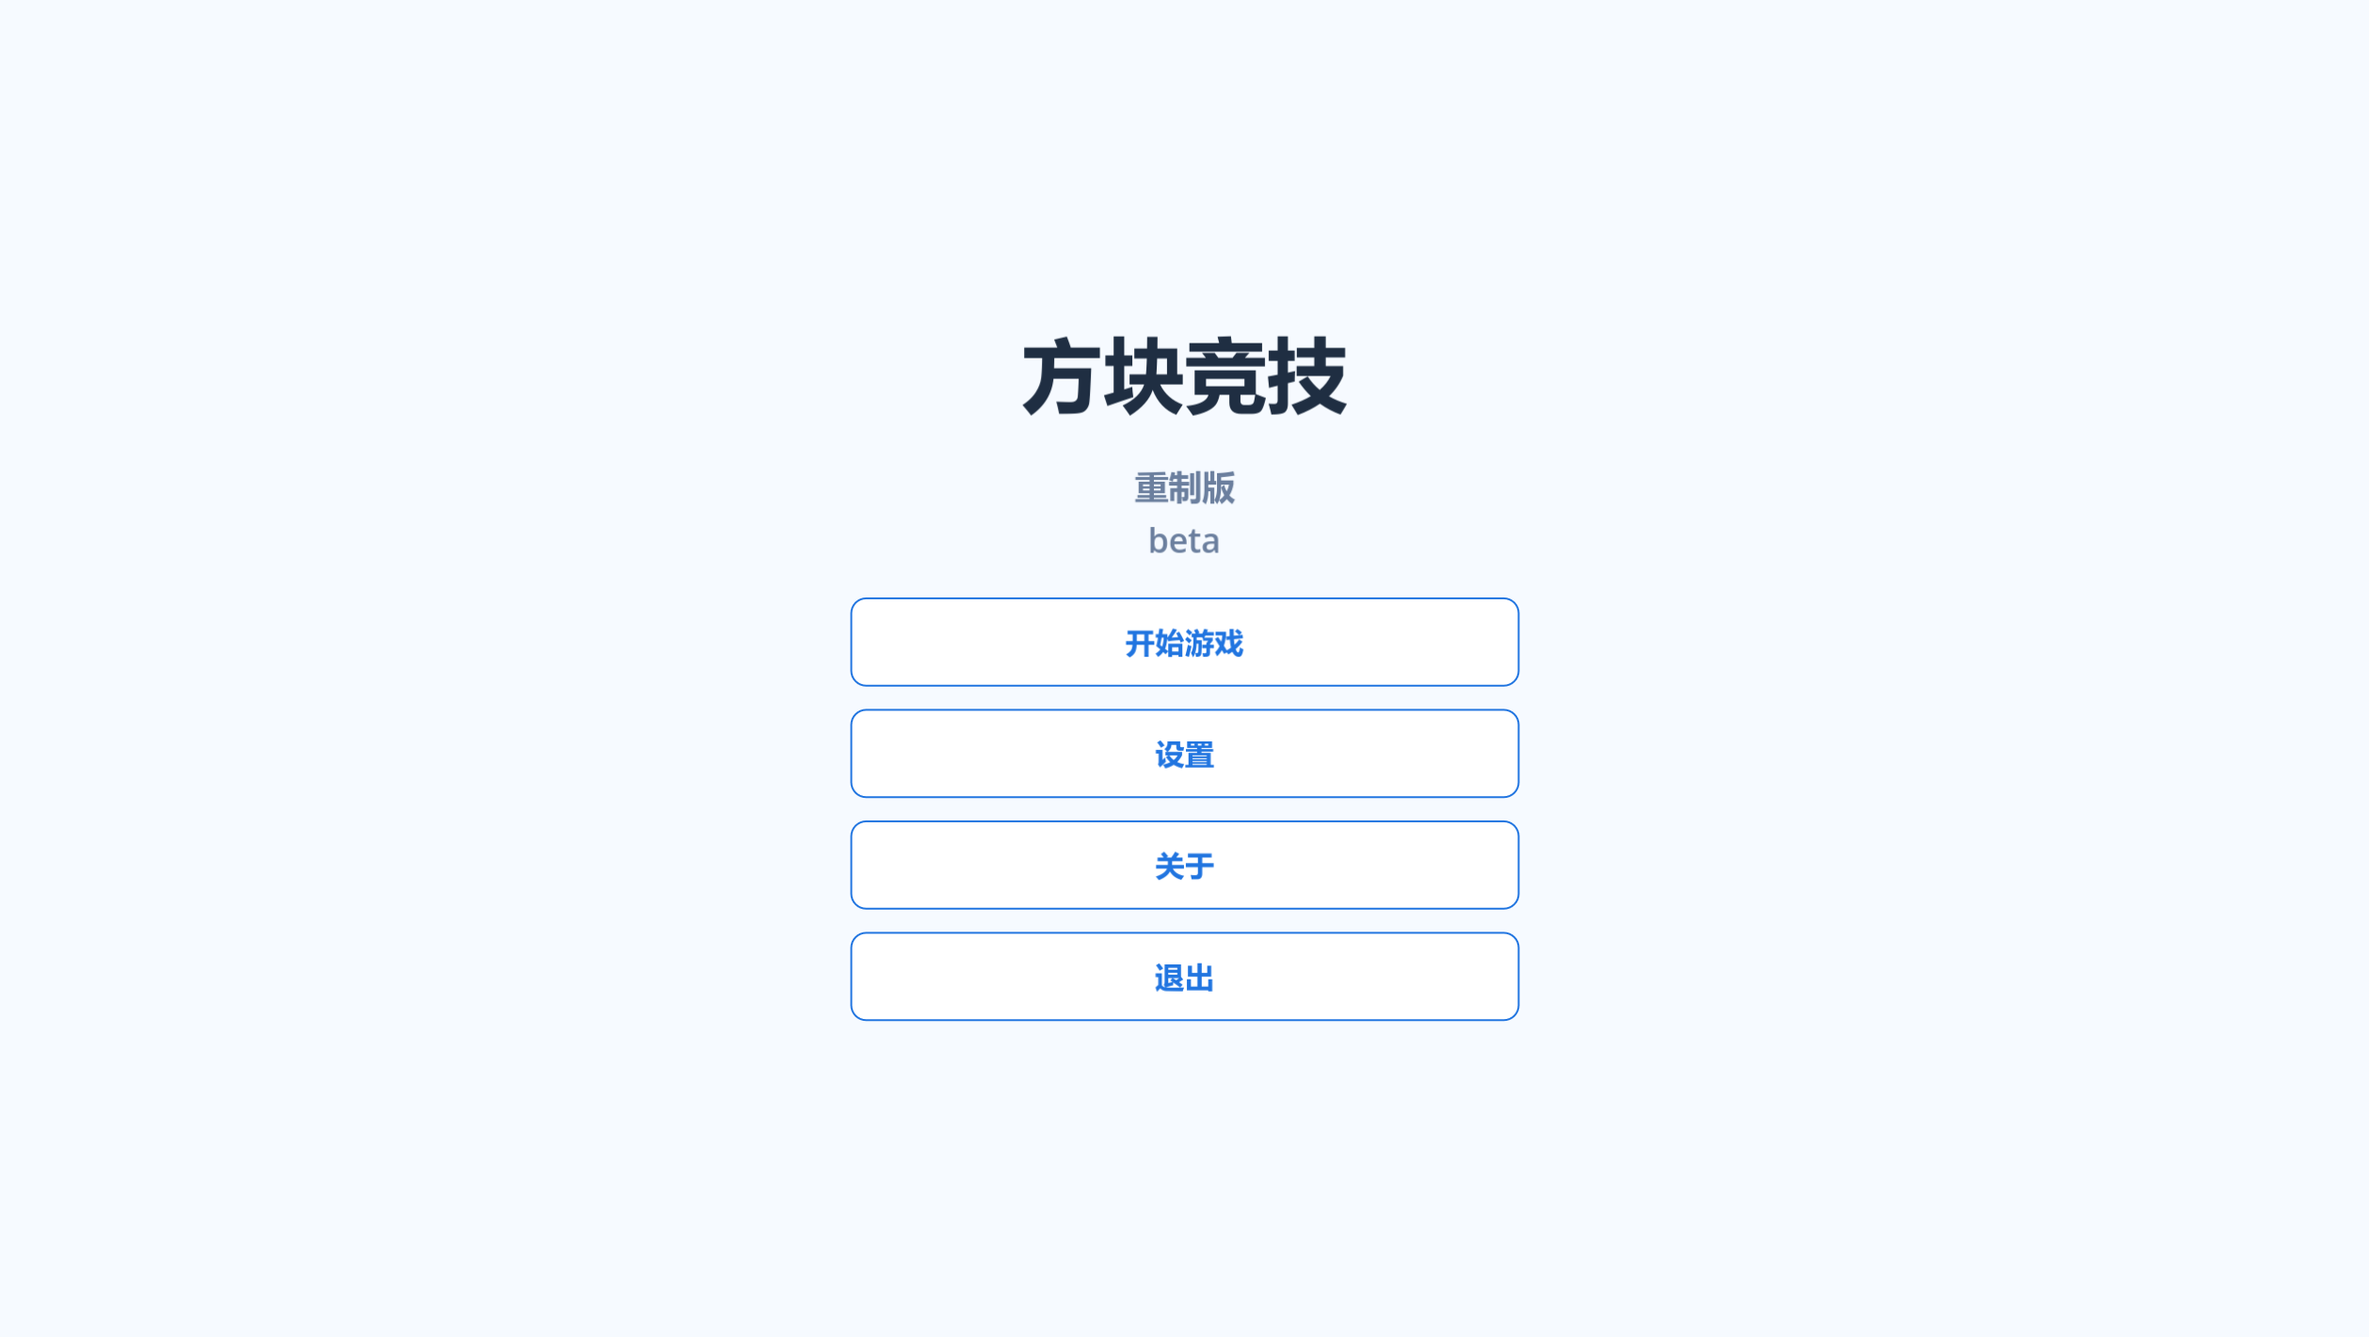
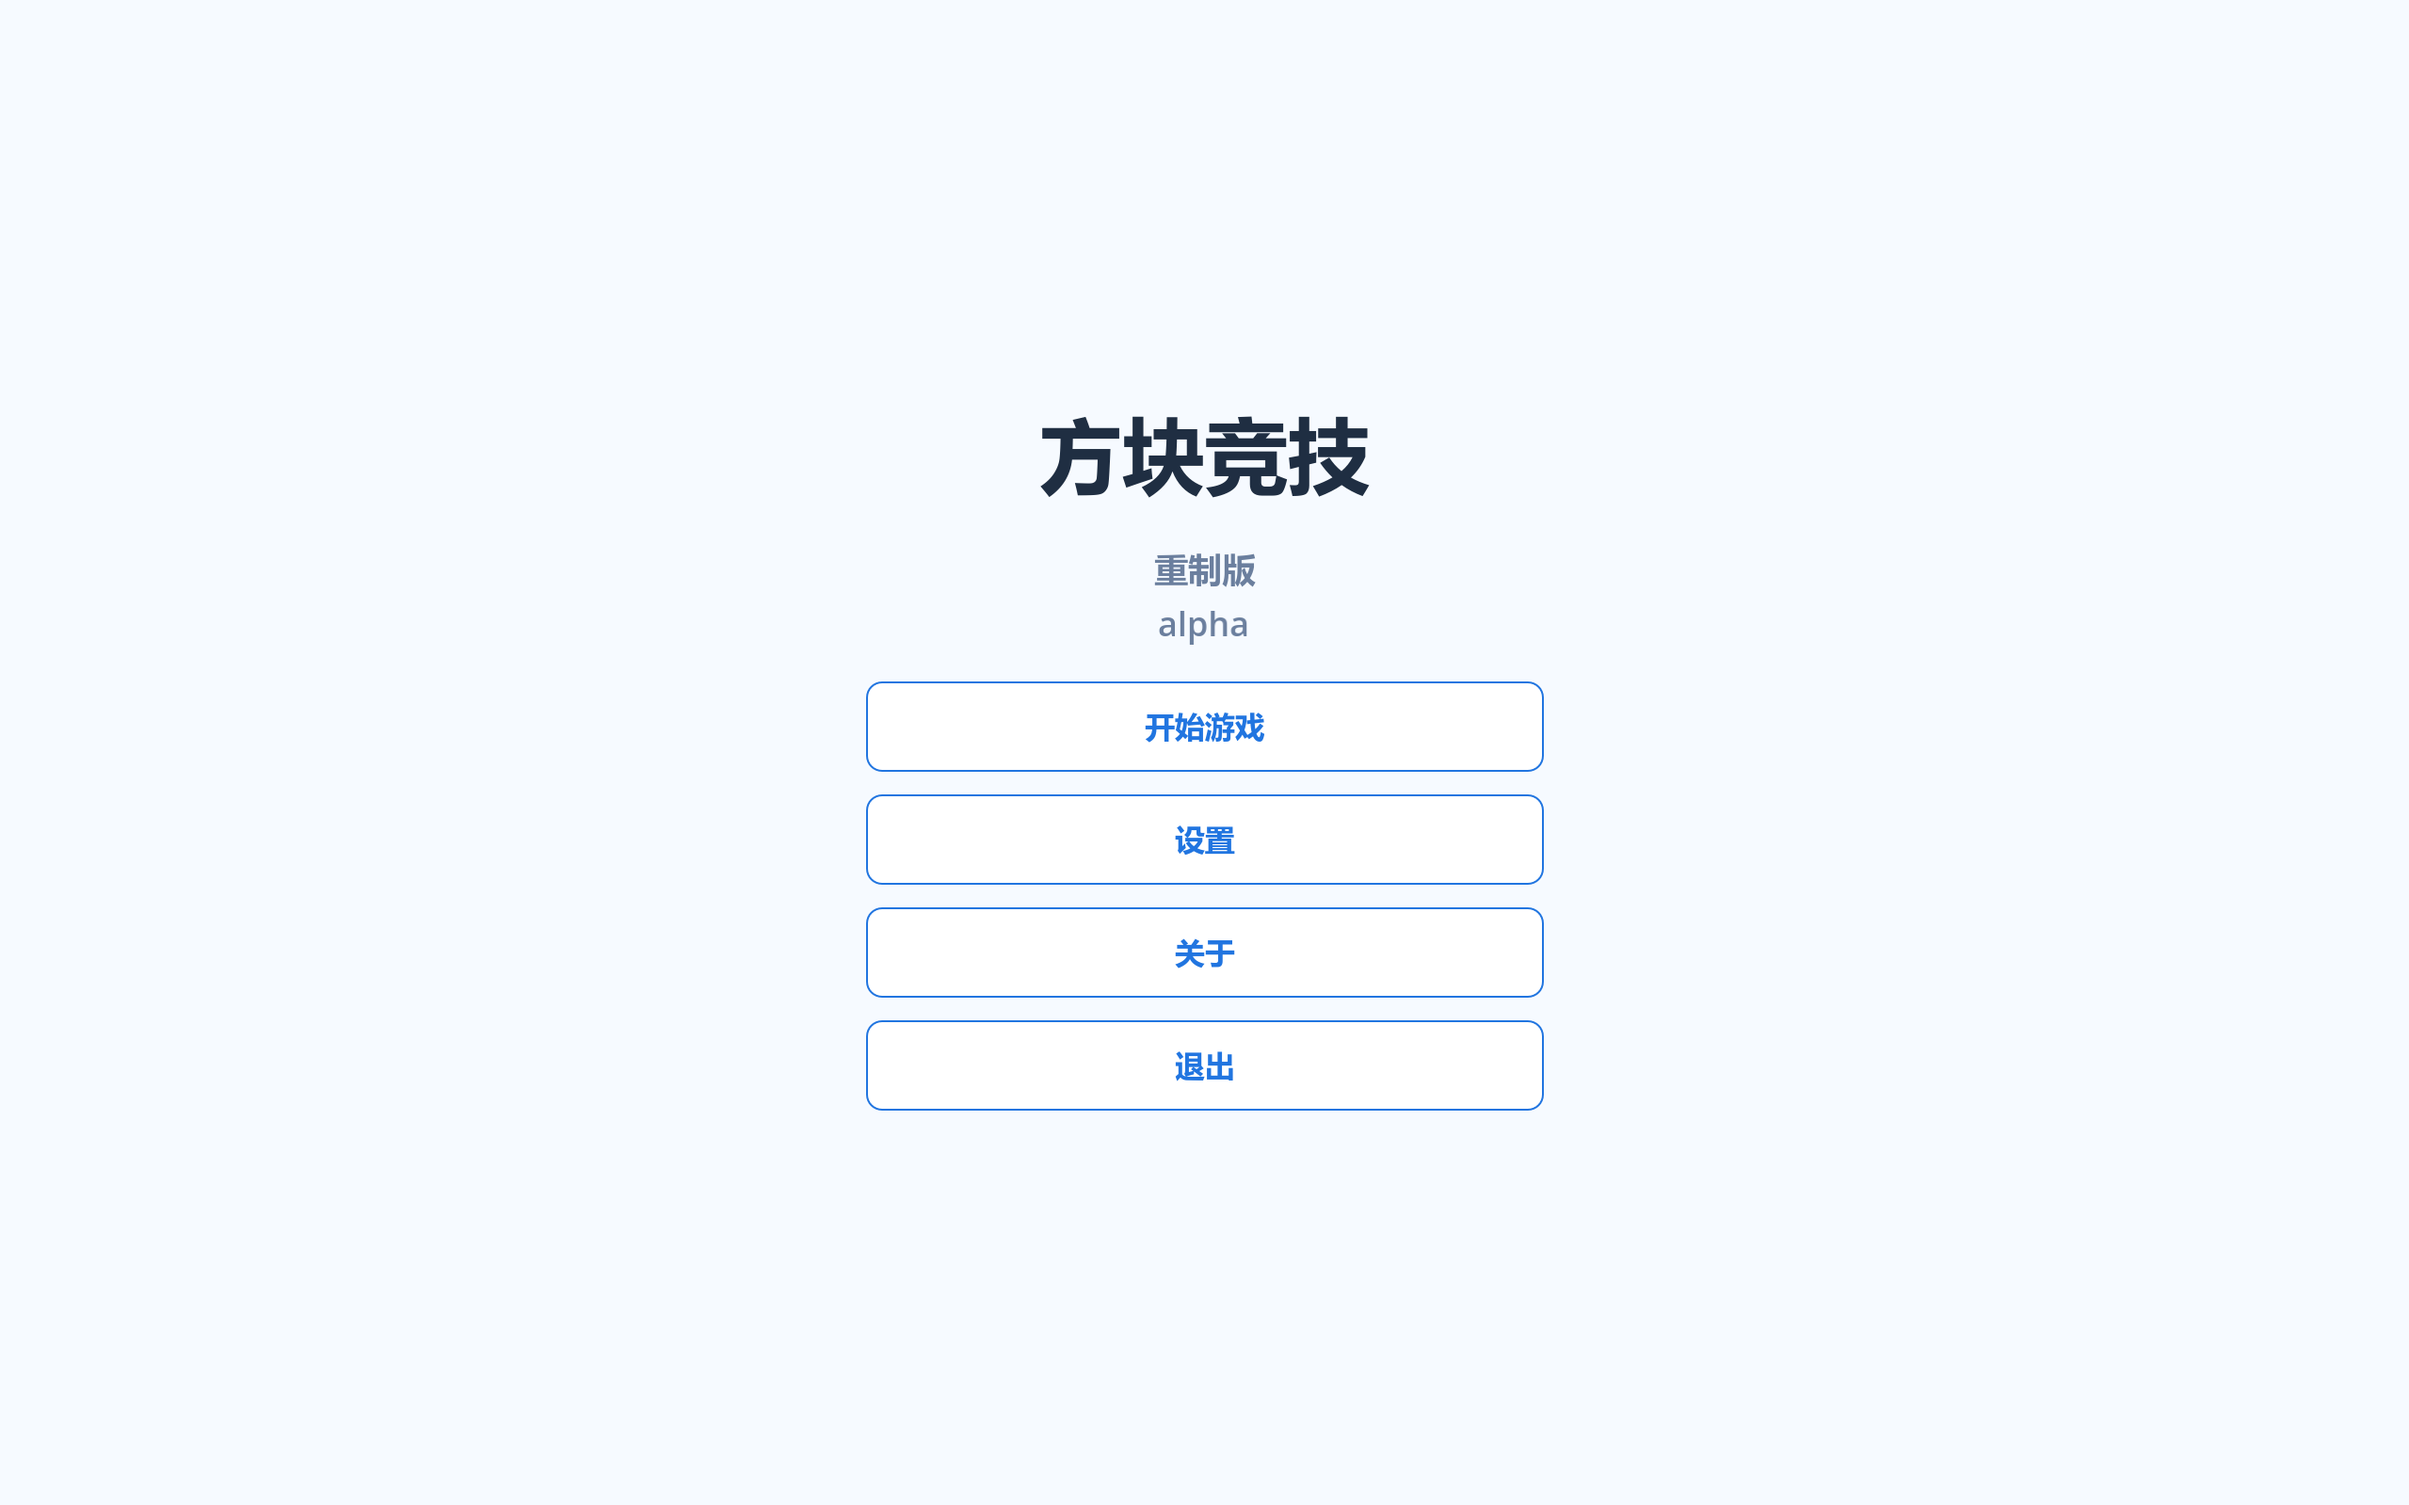
方块竞技 重制版 alpha

Changed region(s): [[0.3719, 0.5264, 0.6508, 0.7431], [0.3719, 0.2477, 0.6198, 0.4954]]

diff --git a/pages/dream7c-CLR/index.html b/pages/dream7c-CLR/index.html
@@ -16,10 +16,186 @@
 		<div class="loading"><div class="pic"></div></div>
 		<div id="main_menu" class="menu-container"></div>
 		<div id="sub_menu" class="menu-container"></div>
-		<h1 class="tx1">方块竞技 重制版</h1>
-		<h2 class="tx3v">即将发布，敬请期待</h2>
+		<style>
+			.clr-page{width:86%;max-width:1320px;margin:0 auto;}
+			.clr-hero{padding:28px 0 16px;}
+			.clr-hero-logo{width:36%;max-width:360px;display:block;margin:0 auto 24px;}
+			.clr-shot img,.clr-mode-image img{width:100%;display:block;border-radius:10px;}
+			.clr-actions{overflow:hidden;margin-top:24px;}
+			.clr-section{clear:both;padding:24px 0;}
+			.clr-mode-grid{display:grid;grid-template-columns:repeat(3,minmax(0,1fr));gap:18px;}
+			.clr-mode-card{background:#fff;border:1px solid rgba(136,171,218,0.35);padding:18px;border-radius:8px;text-align:center;cursor:pointer;}
+			.clr-mode-card-active{background:#88abda;color:#fff;}
+			.clr-mode-card-active .tx3b,.clr-mode-card-active .tx3{color:#fff;}
+			.clr-mode-icon{width:84px;max-width:38%;display:block;margin:0 auto 12px;}
+			.clr-mode-detail{clear:both;overflow:hidden;padding:24px 0;border-top:1px solid #e8e8e8;}
+			.clr-mode-detail-hidden{display:none;}
+			.clr-mode-image{float:left;width:46%;}
+			.clr-mode-content{float:right;width:50%;}
+			.clr-skill-grid{display:grid;grid-template-columns:repeat(2,minmax(0,1fr));gap:12px;margin-top:14px;}
+			.clr-skill{overflow:hidden;background:#f7f7f7;border:1px solid #e8e8e8;border-radius:8px;padding:10px;}
+			.clr-skill img{float:left;width:54px;height:54px;margin-right:12px;border-radius:8px;}
+			.clr-skill p{margin:0;}
+			.clr-shot-grid{display:grid;grid-template-columns:repeat(2,minmax(0,1fr));gap:18px;}
+			.clr-shot{text-align:center;}
+			.clr-download{background:#f7f7f7;border:1px solid #e8e8e8;border-radius:8px;padding:22px;overflow:hidden;}
+			.clr-download-info{float:left;width:58%;}
+			.clr-download-action{float:right;width:34%;margin-top:18px;padding:18px;text-align:center;background:#88abda;color:#fff;font-size:20px;border-radius:8px;}
+			.clr-placeholder{color:#535353;}
+			@media (max-width: 768px) {
+				.clr-page{width:92%;}
+				.clr-hero-logo{width:68%;}
+				.clr-mode-image,.clr-mode-content,.clr-download-info,.clr-download-action{float:none;width:100%;}
+				.clr-mode-grid,.clr-skill-grid,.clr-shot-grid{grid-template-columns:1fr;}
+			}
+		</style>
+		<div class="clr-page">
+			<div class="clr-hero">
+				<h1 class="tx1">方块竞技 重制版</h1>
+				<img class="clr-hero-logo" src="../../images/dream7c CLR logo.png" alt="方块竞技 重制版 logo" />
+				<div class="mdiv">
+					<div class="clr-section" id="clr-download">
+						<p class="tx2v">下载 方块竞技 重制版</p>
+						<div class="clr-download">
+							<div class="clr-download-info">
+								<p class="tx3b">方块竞技 重制版</p>
+								<p class="tx3">
+									版本：alpha<br/><br/>
+									支持系统：Windows<br/>
+									语言：中文（简体）<br/>
+									占用内存：176 MB<br/><br/>
+									发布日期：2026.06.09
+								</p>
+							</div>
+							<a href="#"><div class="clr-download-action">点此下载</div></a>
+							<a href="../../pages/dream7c-CLR/about.html"><div class="clr-download-action">关于</div></a>
+						</div>
+					</div>
+				</div>
+			</div>
+
+			<div class="clr-section">
+				<p class="tx2v">游戏模式</p>
+				<div class="clr-mode-grid">
+					<div class="clr-mode-card clr-mode-card-active" id="clr-mode-tab-classic" onclick="showClrMode('classic')">
+						<img class="clr-mode-icon" src="../../images/dream7c CLR/icons/classic/classic.png" alt="经典模式" />
+						<p class="tx3b">经典模式</p>
+					</div>
+					<div class="clr-mode-card" id="clr-mode-tab-explore" onclick="showClrMode('explore')">
+						<img class="clr-mode-icon" src="../../images/dream7c CLR/icons/explore/explore.png" alt="探索模式" />
+						<p class="tx3b">探索模式</p>
+					</div>
+					<div class="clr-mode-card" id="clr-mode-tab-conquest" onclick="showClrMode('conquest')">
+						<img class="clr-mode-icon" src="../../images/dream7c CLR/icons/conquest/conquest.png" alt="征服模式" />
+						<p class="tx3b">征服模式</p>
+					</div>
+				</div>
+			</div>
+
+			<div class="clr-mode-detail" id="clr-mode-detail-classic">
+				<div class="clr-mode-image">
+					<img src="../../images/dream7c CLR/dream7c CLR classic.png" alt="经典模式截图" />
+				</div>
+				<div class="clr-mode-content">
+					<p class="tx2v">经典模式</p>
+					<p class="tx3">目标：将对手推下平台</p>
+					<p class="tx3b">技能</p>
+					<div class="clr-skill-grid">
+						<div class="clr-skill"><img src="../../images/dream7c CLR/icons/classic/skill_knockback.png" alt="击退" /><p class="tx3b">击退</p><p class="tx3 clr-placeholder">将对手击退一定距离</p></div>
+						<div class="clr-skill"><img src="../../images/dream7c CLR/icons/classic/skill_attract.png" alt="吸引" /><p class="tx3b">吸引</p><p class="tx3 clr-placeholder">缩短与对手距离</p></div>
+						<div class="clr-skill"><img src="../../images/dream7c CLR/icons/classic/skill_repel.png" alt="排斥" /><p class="tx3b">排斥</p><p class="tx3 clr-placeholder">拉开与对手距离</p></div>
+						<div class="clr-skill"><img src="../../images/dream7c CLR/icons/classic/skill_teleport.png" alt="传送" /><p class="tx3b">瞬移</p><p class="tx3 clr-placeholder">移动到对手附近</p></div>
+					</div>
+					<p class="tx3b">状态</p>
+					<div class="clr-skill-grid">
+						<div class="clr-skill"><img src="../../images/dream7c CLR/icons/classic/status_normal.png" alt="normal" /><p class="tx3b">普通</p><p class="tx3 clr-placeholder">体积适中</p></div>
+						<div class="clr-skill"><img src="../../images/dream7c CLR/icons/classic/status_large.png" alt="large" /><p class="tx3b">变大</p><p class="tx3 clr-placeholder">体积变大、增加击退距离、减缓移动速度</p></div>
+						<div class="clr-skill"><img src="../../images/dream7c CLR/icons/classic/status_small.png" alt="small" /><p class="tx3b">变小</p><p class="tx3 clr-placeholder">体积变小、增加移动速度、减小击退距离</p></div>
+						<div class="clr-skill"><img src="../../images/dream7c CLR/icons/classic/status_silenced.png" alt="silenced" /><p class="tx3b">沉默</p><p class="tx3 clr-placeholder">无法使用 吸引、排斥、瞬移</p></div>
+					</div>
+				</div>
+			</div>
+
+			<div class="clr-mode-detail clr-mode-detail-hidden" id="clr-mode-detail-explore">
+				<div class="clr-mode-image">
+					<img src="../../images/dream7c CLR/dream7c CLR explore.png" alt="探索模式截图" />
+				</div>
+				<div class="clr-mode-content">
+					<p class="tx2v">探索模式</p>
+					<p class="tx3">目标：将对手的HP降为0或获得20GP</p>
+					<div class="clr-skill-grid">
+						<div class="clr-skill"><img src="../../images/dream7c CLR/icons/explore/item_0_empower.png" alt="empower" /><p class="tx3b">强化</p><p class="tx3 clr-placeholder">强化下一个技能（技能中的括号内的内容为强化后的效果）</p></div>
+						<div class="clr-skill"><img src="../../images/dream7c CLR/icons/explore/item_1_haste.png" alt="haste" /><p class="tx3b">加速</p><p class="tx3 clr-placeholder">移动速度短暂变为1.5（2）倍</p></div>
+						<div class="clr-skill"><img src="../../images/dream7c CLR/icons/explore/item_2_knockback.png" alt="knockback" /><p class="tx3b">击退</p><p class="tx3 clr-placeholder">将对手击退一小段（一大段）距离，并造成2（4）点伤害</p></div>
+						<div class="clr-skill"><img src="../../images/dream7c CLR/icons/explore/item_3_assault.png" alt="assault" /><p class="tx3b">突袭</p><p class="tx3 clr-placeholder">造成4（8）点伤害</p></div>
+						<div class="clr-skill"><img src="../../images/dream7c CLR/icons/explore/item_4_siphon.png" alt="siphon" /><p class="tx3b">虹吸</p><p class="tx3 clr-placeholder">获得2（4）HP/GP，对手减少2（4）HP/GP</p></div>
+					</div>
+				</div>
+			</div>
+
+			<div class="clr-mode-detail clr-mode-detail-hidden" id="clr-mode-detail-conquest">
+				<div class="clr-mode-image">
+					<img src="../../images/dream7c CLR/dream7c CLR conquest.png" alt="征服模式截图" />
+				</div>
+				<div class="clr-mode-content">
+					<p class="tx2v">征服模式</p>
+					<p class="tx3">目标：获得100GP</p>
+					<div class="clr-skill-grid">
+						<div class="clr-skill"><img src="../../images/dream7c CLR/icons/conquest/skill_knockback.png" alt="击退" /><p class="tx3b">击退</p><p class="tx3 clr-placeholder">将对手击退一段距离</p></div>
+						<div class="clr-skill"><img src="../../images/dream7c CLR/icons/conquest/skill_restricted_zone.png" alt="限制区域" /><p class="tx3b">禁区</p><p class="tx3 clr-placeholder">创造一个圆形区域，对手在区域内的移动速度大幅下降</p></div>
+						<div class="clr-skill"><img src="../../images/dream7c CLR/icons/conquest/skill_raid.png" alt="突袭" /><p class="tx3b">突击</p><p class="tx3 clr-placeholder">移动到对手的据点</p></div>
+					</div>
+				</div>
+			</div>
+
+			<div class="clr-section">
+				<p class="tx2v">游戏截图</p>
+				<div class="clr-shot-grid">
+					<div class="clr-shot">
+						<img src="../../images/dream7c CLR/dream7c CLR main menu.png" alt="主菜单" />
+						<p class="tx3v">主菜单</p>
+					</div>
+					<div class="clr-shot">
+						<img src="../../images/dream7c CLR/dream7c CLR select mode.png" alt="选择模式" />
+						<p class="tx3v">选择模式</p>
+					</div>
+				</div>
+			</div>
+		</div>
 		<div style="clear:both;">&nbsp;</div>
 		<div id="footer"></div>
 	</body>
 	<script src="../../js/setcommon.js"></script>
+	<script>
+		function showClrMode(mode) {
+			var modes = ["classic", "explore", "conquest"];
+			var i;
+			var tab;
+			var detail;
+
+			for (i = 0; i < modes.length; i++) {
+				tab = document.getElementById("clr-mode-tab-" + modes[i]);
+				detail = document.getElementById("clr-mode-detail-" + modes[i]);
+
+				if (tab) {
+					tab.className = tab.className.replace(" clr-mode-card-active", "");
+				}
+				if (detail) {
+					detail.className = detail.className.indexOf("clr-mode-detail-hidden") === -1
+						? detail.className + " clr-mode-detail-hidden"
+						: detail.className;
+				}
+			}
+
+			tab = document.getElementById("clr-mode-tab-" + mode);
+			detail = document.getElementById("clr-mode-detail-" + mode);
+
+			if (tab) {
+				tab.className += " clr-mode-card-active";
+			}
+			if (detail) {
+				detail.className = detail.className.replace(" clr-mode-detail-hidden", "");
+			}
+		}
+	</script>
 </html>

diff --git a/js/data/product-about-pages.js b/js/data/product-about-pages.js
@@ -237,13 +237,12 @@ var productAboutPageData = {
         title: "关于 方块竞技 重制版",
         intro: "方块竞技 重制版 是 方块竞技 系列游戏的重制版，重新设计了界面和游戏模式。",
         history: [
-            "2026.06.11    方块竞技 重制版 beta"
+            "2026.06.09    方块竞技 重制版 alpha"
         ],
         developers: [
             "总设计师 | 李正浩",
             "程序设计 | 李正浩",
-            "平面设计 | 李正浩",
-            "音乐设计 | 李正浩"
+            "平面设计 | 李正浩"
         ]
     }
 };
